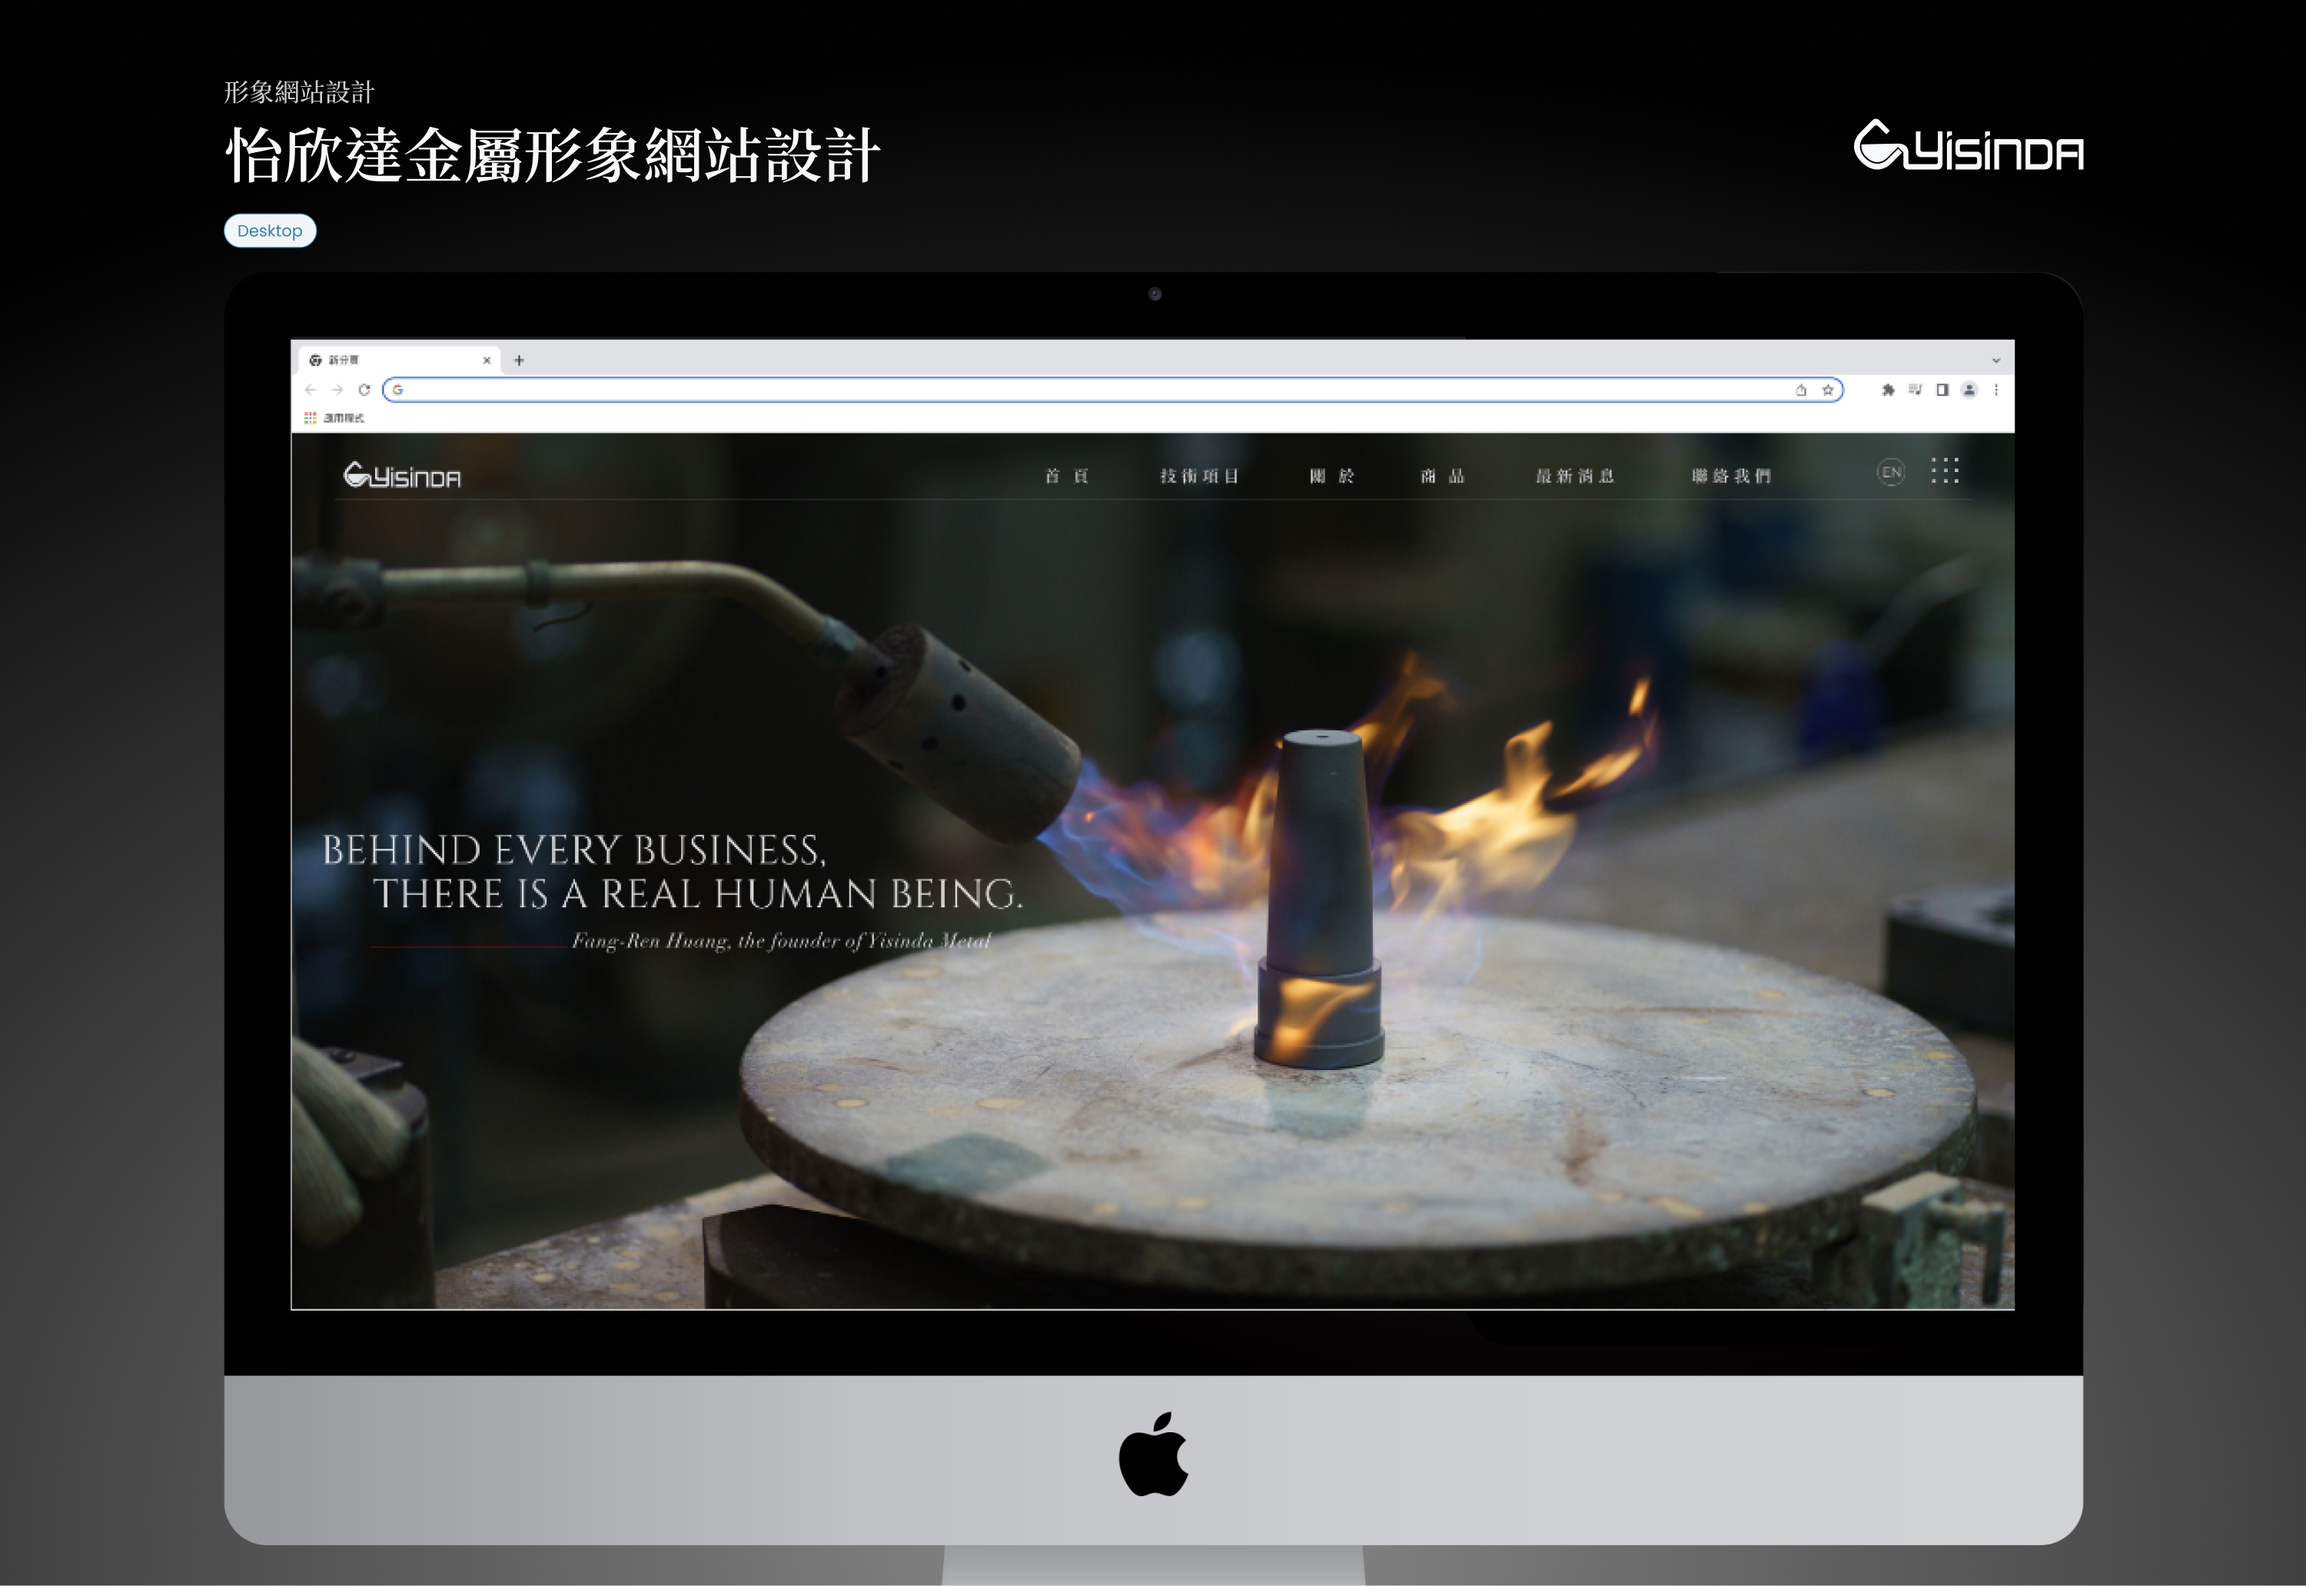
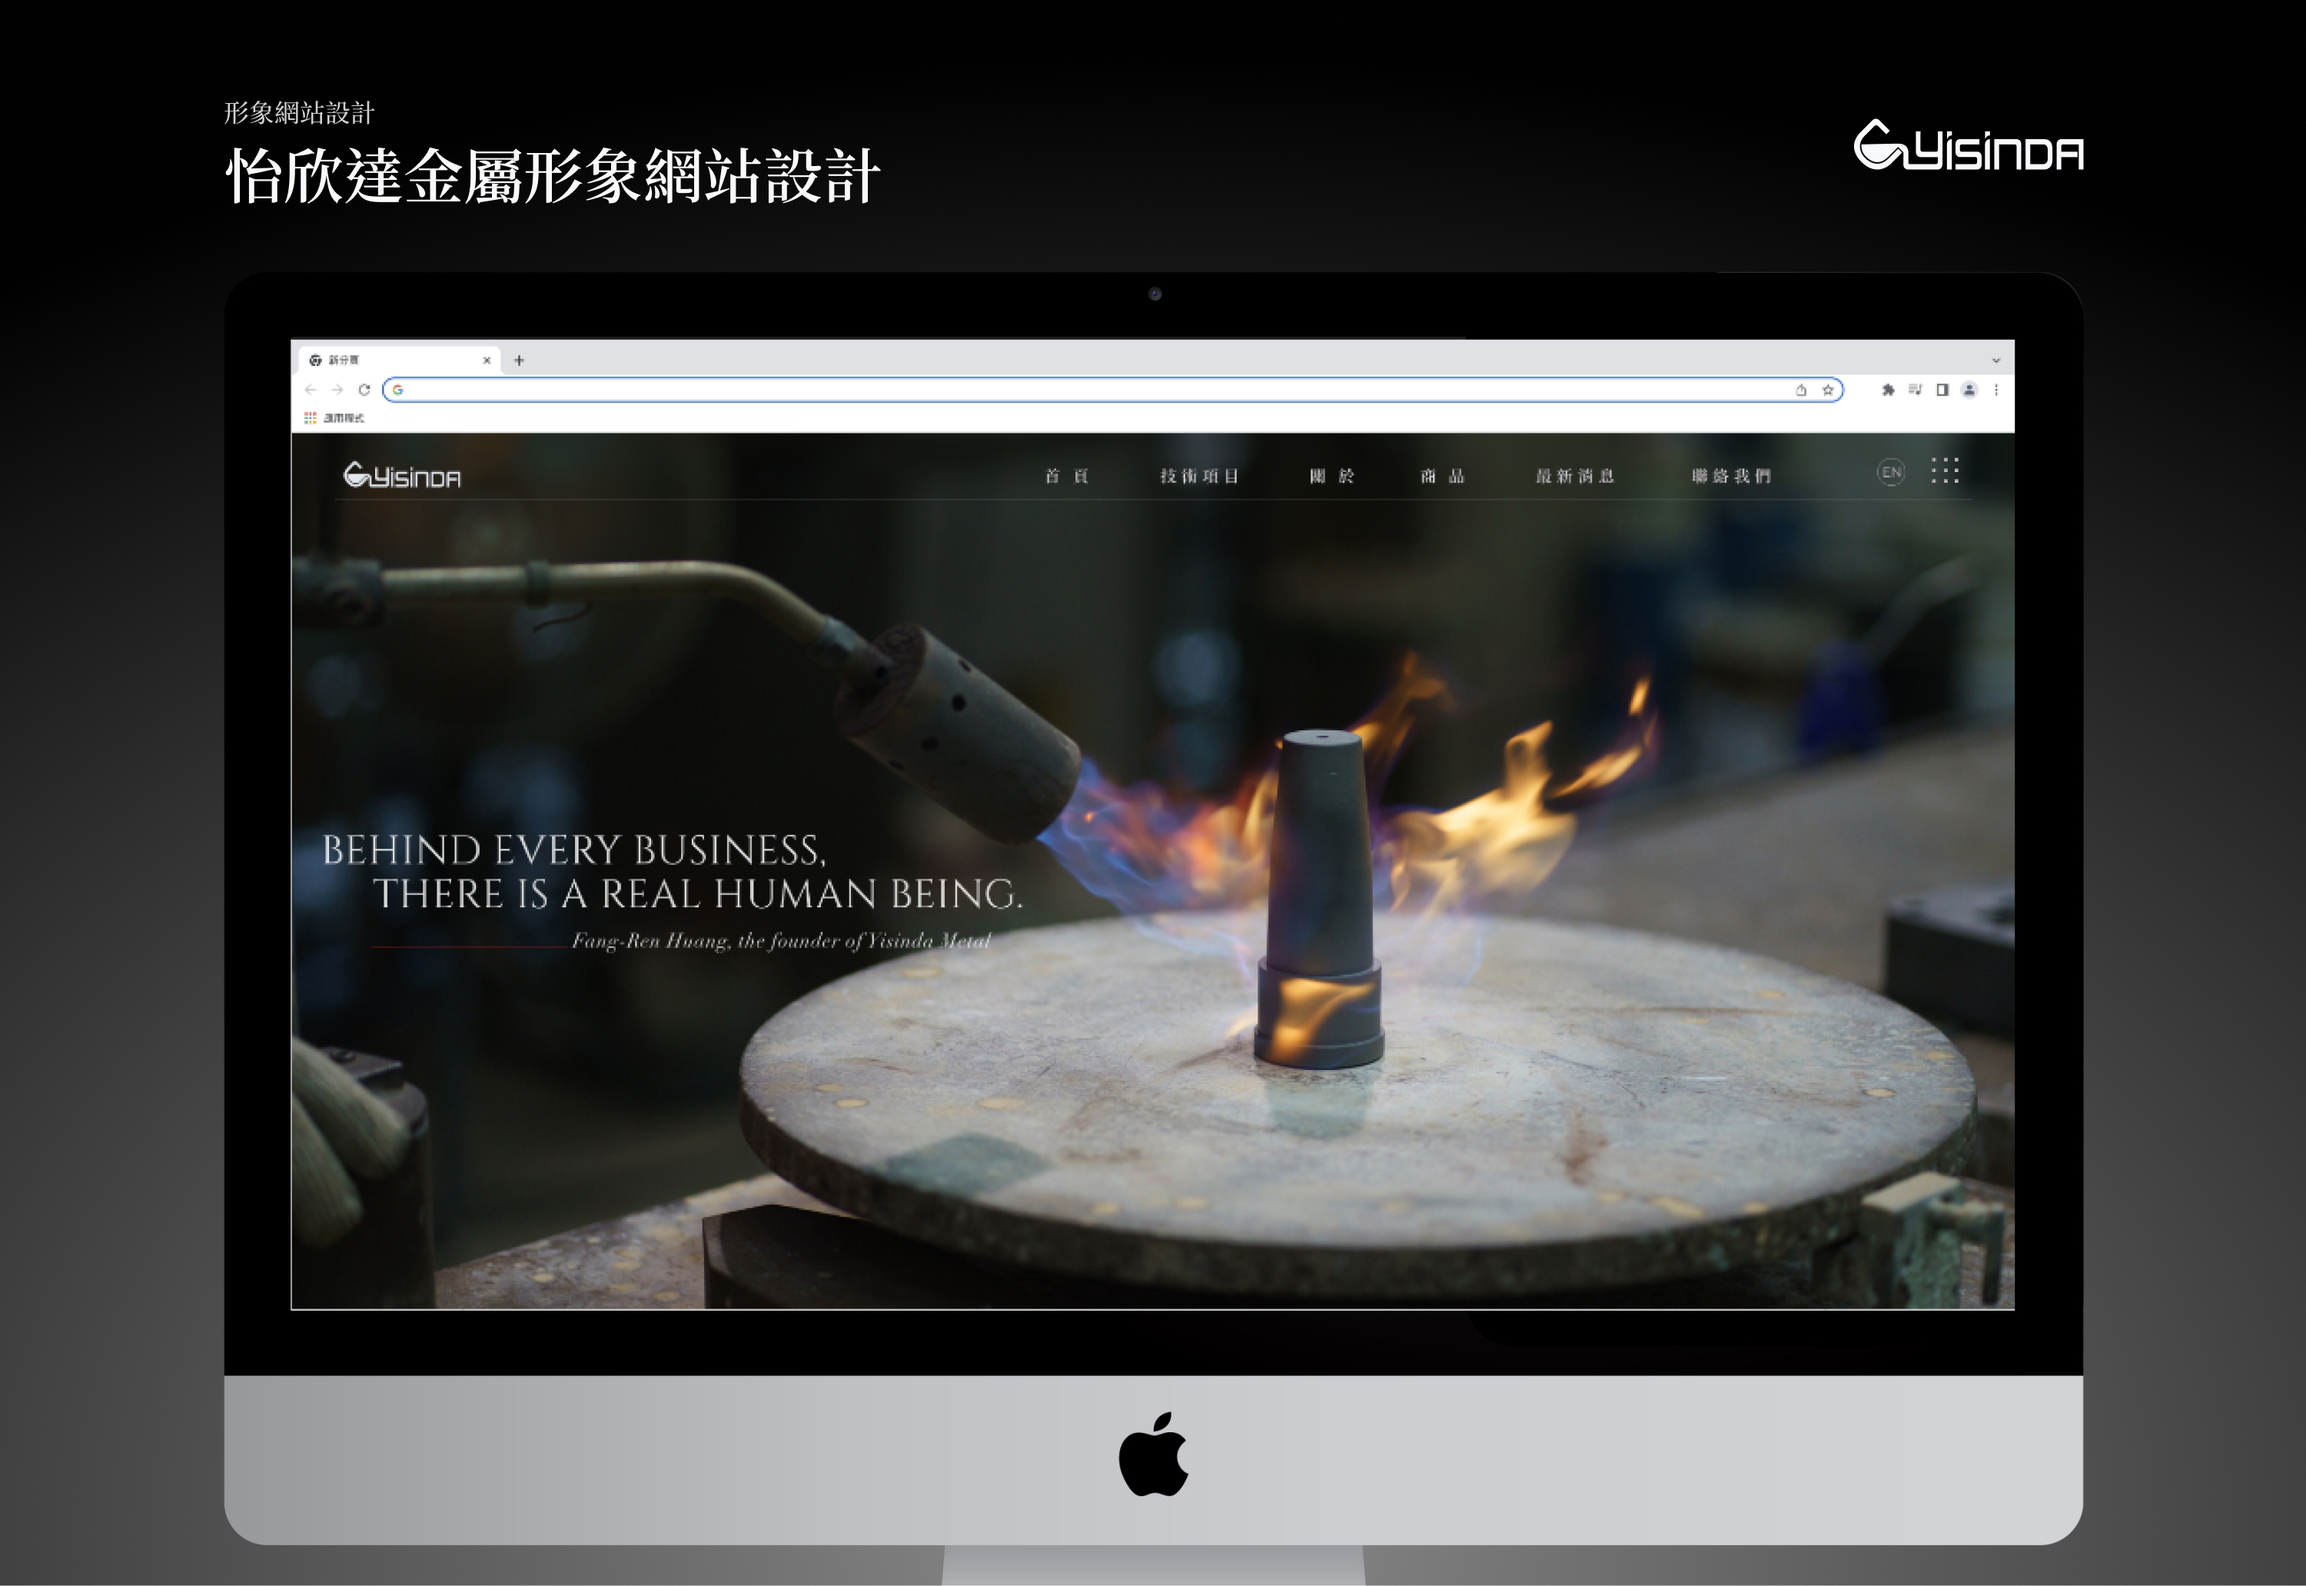
yisinda-00: refresh cover image

Changed region(s): [[0.093, 0.031, 0.372, 0.1551]]

diff --git a/uiux.html b/uiux.html
@@ -10,7 +10,7 @@
 <link rel="preconnect" href="https://fonts.googleapis.com">
 <link rel="preconnect" href="https://fonts.gstatic.com" crossorigin>
 <link href="https://fonts.googleapis.com/css2?family=Poppins:wght@300;400;500;600&family=Noto+Sans+TC:wght@300;400;500;600&display=swap" rel="stylesheet">
-<link rel="stylesheet" href="assets/styles.css?v=99">
+<link rel="stylesheet" href="assets/styles.css?v=100">
 </head>
 <body class="page-theme">
 
@@ -104,7 +104,7 @@
   </a>
 
   <a class="proj-card" href="project-yisinda.html" data-hover>
-    <div class="cover"><img src="./images/yisinda-00.jpg" alt="怡欣達形象網站設計"></div>
+    <div class="cover"><img src="./images/yisinda-00.jpg?v=2" alt="怡欣達形象網站設計"></div>
     <div class="body">
       <div class="meta"><span>形象網站</span></div>
       <h3>怡欣達形象網站設計</h3>
@@ -134,6 +134,6 @@
 <script src="https://cdn.jsdelivr.net/npm/lenis@1.1.13/dist/lenis.min.js"></script>
 <script src="https://cdnjs.cloudflare.com/ajax/libs/gsap/3.12.5/gsap.min.js"></script>
 <script src="https://cdnjs.cloudflare.com/ajax/libs/gsap/3.12.5/ScrollTrigger.min.js"></script>
-<script src="assets/main.js?v=99"></script>
+<script src="assets/main.js?v=100"></script>
 </body>
 </html>

diff --git a/index.html b/index.html
@@ -10,7 +10,7 @@
 <link rel="preconnect" href="https://fonts.googleapis.com">
 <link rel="preconnect" href="https://fonts.gstatic.com" crossorigin>
 <link href="https://fonts.googleapis.com/css2?family=Poppins:wght@300;400;500;600&family=Noto+Sans+TC:wght@300;400;500;600&display=swap" rel="stylesheet">
-<link rel="stylesheet" href="assets/styles.css?v=99">
+<link rel="stylesheet" href="assets/styles.css?v=100">
 <style id="home-tweak">.hero,.hero-bg,.hero::after{display:none!important}</style>
 </head>
 <body>
@@ -153,6 +153,6 @@
 <script src="https://cdn.jsdelivr.net/npm/lenis@1.1.13/dist/lenis.min.js"></script>
 <script src="https://cdnjs.cloudflare.com/ajax/libs/gsap/3.12.5/gsap.min.js"></script>
 <script src="https://cdnjs.cloudflare.com/ajax/libs/gsap/3.12.5/ScrollTrigger.min.js"></script>
-<script src="assets/main.js?v=99"></script>
+<script src="assets/main.js?v=100"></script>
 </body>
 </html>

diff --git a/project.html b/project.html
@@ -10,7 +10,7 @@
 <link rel="preconnect" href="https://fonts.googleapis.com">
 <link rel="preconnect" href="https://fonts.gstatic.com" crossorigin>
 <link href="https://fonts.googleapis.com/css2?family=Poppins:wght@300;400;500;600&family=Noto+Sans+TC:wght@300;400;500;600&display=swap" rel="stylesheet">
-<link rel="stylesheet" href="assets/styles.css?v=99">
+<link rel="stylesheet" href="assets/styles.css?v=100">
 </head>
 <body class="page-theme proj-wide">
 
@@ -124,6 +124,6 @@
 <script src="https://cdn.jsdelivr.net/npm/lenis@1.1.13/dist/lenis.min.js"></script>
 <script src="https://cdnjs.cloudflare.com/ajax/libs/gsap/3.12.5/gsap.min.js"></script>
 <script src="https://cdnjs.cloudflare.com/ajax/libs/gsap/3.12.5/ScrollTrigger.min.js"></script>
-<script src="assets/main.js?v=99"></script>
+<script src="assets/main.js?v=100"></script>
 </body>
 </html>

diff --git a/project-easycycle.html b/project-easycycle.html
@@ -10,7 +10,7 @@
 <link rel="preconnect" href="https://fonts.googleapis.com">
 <link rel="preconnect" href="https://fonts.gstatic.com" crossorigin>
 <link href="https://fonts.googleapis.com/css2?family=Poppins:wght@300;400;500;600&family=Noto+Sans+TC:wght@300;400;500;600&display=swap" rel="stylesheet">
-<link rel="stylesheet" href="assets/styles.css?v=99">
+<link rel="stylesheet" href="assets/styles.css?v=100">
 </head>
 <body class="page-theme proj-wide">
 
@@ -72,6 +72,6 @@
 <script src="https://cdn.jsdelivr.net/npm/lenis@1.1.13/dist/lenis.min.js"></script>
 <script src="https://cdnjs.cloudflare.com/ajax/libs/gsap/3.12.5/gsap.min.js"></script>
 <script src="https://cdnjs.cloudflare.com/ajax/libs/gsap/3.12.5/ScrollTrigger.min.js"></script>
-<script src="assets/main.js?v=99"></script>
+<script src="assets/main.js?v=100"></script>
 </body>
 </html>

diff --git a/project-easycycle2.html b/project-easycycle2.html
@@ -10,7 +10,7 @@
 <link rel="preconnect" href="https://fonts.googleapis.com">
 <link rel="preconnect" href="https://fonts.gstatic.com" crossorigin>
 <link href="https://fonts.googleapis.com/css2?family=Poppins:wght@300;400;500;600&family=Noto+Sans+TC:wght@300;400;500;600&display=swap" rel="stylesheet">
-<link rel="stylesheet" href="assets/styles.css?v=99">
+<link rel="stylesheet" href="assets/styles.css?v=100">
 </head>
 <body class="page-theme proj-wide">
 
@@ -69,6 +69,6 @@
 <script src="https://cdn.jsdelivr.net/npm/lenis@1.1.13/dist/lenis.min.js"></script>
 <script src="https://cdnjs.cloudflare.com/ajax/libs/gsap/3.12.5/gsap.min.js"></script>
 <script src="https://cdnjs.cloudflare.com/ajax/libs/gsap/3.12.5/ScrollTrigger.min.js"></script>
-<script src="assets/main.js?v=99"></script>
+<script src="assets/main.js?v=100"></script>
 </body>
 </html>

diff --git a/project-greenroad.html b/project-greenroad.html
@@ -10,7 +10,7 @@
 <link rel="preconnect" href="https://fonts.googleapis.com">
 <link rel="preconnect" href="https://fonts.gstatic.com" crossorigin>
 <link href="https://fonts.googleapis.com/css2?family=Poppins:wght@300;400;500;600&family=Noto+Sans+TC:wght@300;400;500;600&display=swap" rel="stylesheet">
-<link rel="stylesheet" href="assets/styles.css?v=99">
+<link rel="stylesheet" href="assets/styles.css?v=100">
 </head>
 <body class="page-theme proj-wide">
 
@@ -69,6 +69,6 @@
 <script src="https://cdn.jsdelivr.net/npm/lenis@1.1.13/dist/lenis.min.js"></script>
 <script src="https://cdnjs.cloudflare.com/ajax/libs/gsap/3.12.5/gsap.min.js"></script>
 <script src="https://cdnjs.cloudflare.com/ajax/libs/gsap/3.12.5/ScrollTrigger.min.js"></script>
-<script src="assets/main.js?v=99"></script>
+<script src="assets/main.js?v=100"></script>
 </body>
 </html>

diff --git a/project-nmtl.html b/project-nmtl.html
@@ -10,7 +10,7 @@
 <link rel="preconnect" href="https://fonts.googleapis.com">
 <link rel="preconnect" href="https://fonts.gstatic.com" crossorigin>
 <link href="https://fonts.googleapis.com/css2?family=Poppins:wght@300;400;500;600&family=Noto+Sans+TC:wght@300;400;500;600&display=swap" rel="stylesheet">
-<link rel="stylesheet" href="assets/styles.css?v=99">
+<link rel="stylesheet" href="assets/styles.css?v=100">
 </head>
 <body class="page-theme proj-wide">
 
@@ -69,6 +69,6 @@
 <script src="https://cdn.jsdelivr.net/npm/lenis@1.1.13/dist/lenis.min.js"></script>
 <script src="https://cdnjs.cloudflare.com/ajax/libs/gsap/3.12.5/gsap.min.js"></script>
 <script src="https://cdnjs.cloudflare.com/ajax/libs/gsap/3.12.5/ScrollTrigger.min.js"></script>
-<script src="assets/main.js?v=99"></script>
+<script src="assets/main.js?v=100"></script>
 </body>
 </html>

diff --git a/project-teacherwen.html b/project-teacherwen.html
@@ -10,7 +10,7 @@
 <link rel="preconnect" href="https://fonts.googleapis.com">
 <link rel="preconnect" href="https://fonts.gstatic.com" crossorigin>
 <link href="https://fonts.googleapis.com/css2?family=Poppins:wght@300;400;500;600&family=Noto+Sans+TC:wght@300;400;500;600&display=swap" rel="stylesheet">
-<link rel="stylesheet" href="assets/styles.css?v=99">
+<link rel="stylesheet" href="assets/styles.css?v=100">
 </head>
 <body class="page-theme proj-wide">
 
@@ -72,6 +72,6 @@
 <script src="https://cdn.jsdelivr.net/npm/lenis@1.1.13/dist/lenis.min.js"></script>
 <script src="https://cdnjs.cloudflare.com/ajax/libs/gsap/3.12.5/gsap.min.js"></script>
 <script src="https://cdnjs.cloudflare.com/ajax/libs/gsap/3.12.5/ScrollTrigger.min.js"></script>
-<script src="assets/main.js?v=99"></script>
+<script src="assets/main.js?v=100"></script>
 </body>
 </html>

diff --git a/project-yisinda.html b/project-yisinda.html
@@ -10,7 +10,7 @@
 <link rel="preconnect" href="https://fonts.googleapis.com">
 <link rel="preconnect" href="https://fonts.gstatic.com" crossorigin>
 <link href="https://fonts.googleapis.com/css2?family=Poppins:wght@300;400;500;600&family=Noto+Sans+TC:wght@300;400;500;600&display=swap" rel="stylesheet">
-<link rel="stylesheet" href="assets/styles.css?v=99">
+<link rel="stylesheet" href="assets/styles.css?v=100">
 </head>
 <body class="page-theme proj-wide">
 
@@ -79,6 +79,6 @@
 <script src="https://cdn.jsdelivr.net/npm/lenis@1.1.13/dist/lenis.min.js"></script>
 <script src="https://cdnjs.cloudflare.com/ajax/libs/gsap/3.12.5/gsap.min.js"></script>
 <script src="https://cdnjs.cloudflare.com/ajax/libs/gsap/3.12.5/ScrollTrigger.min.js"></script>
-<script src="assets/main.js?v=99"></script>
+<script src="assets/main.js?v=100"></script>
 </body>
 </html>

diff --git a/motion.html b/motion.html
@@ -10,7 +10,7 @@
 <link rel="preconnect" href="https://fonts.googleapis.com">
 <link rel="preconnect" href="https://fonts.gstatic.com" crossorigin>
 <link href="https://fonts.googleapis.com/css2?family=Poppins:wght@300;400;500;600&family=Noto+Sans+TC:wght@300;400;500;600&display=swap" rel="stylesheet">
-<link rel="stylesheet" href="assets/styles.css?v=99">
+<link rel="stylesheet" href="assets/styles.css?v=100">
 </head>
 <body class="page-theme">
 
@@ -114,6 +114,6 @@
 <script src="https://cdn.jsdelivr.net/npm/lenis@1.1.13/dist/lenis.min.js"></script>
 <script src="https://cdnjs.cloudflare.com/ajax/libs/gsap/3.12.5/gsap.min.js"></script>
 <script src="https://cdnjs.cloudflare.com/ajax/libs/gsap/3.12.5/ScrollTrigger.min.js"></script>
-<script src="assets/main.js?v=99"></script>
+<script src="assets/main.js?v=100"></script>
 </body>
 </html>
